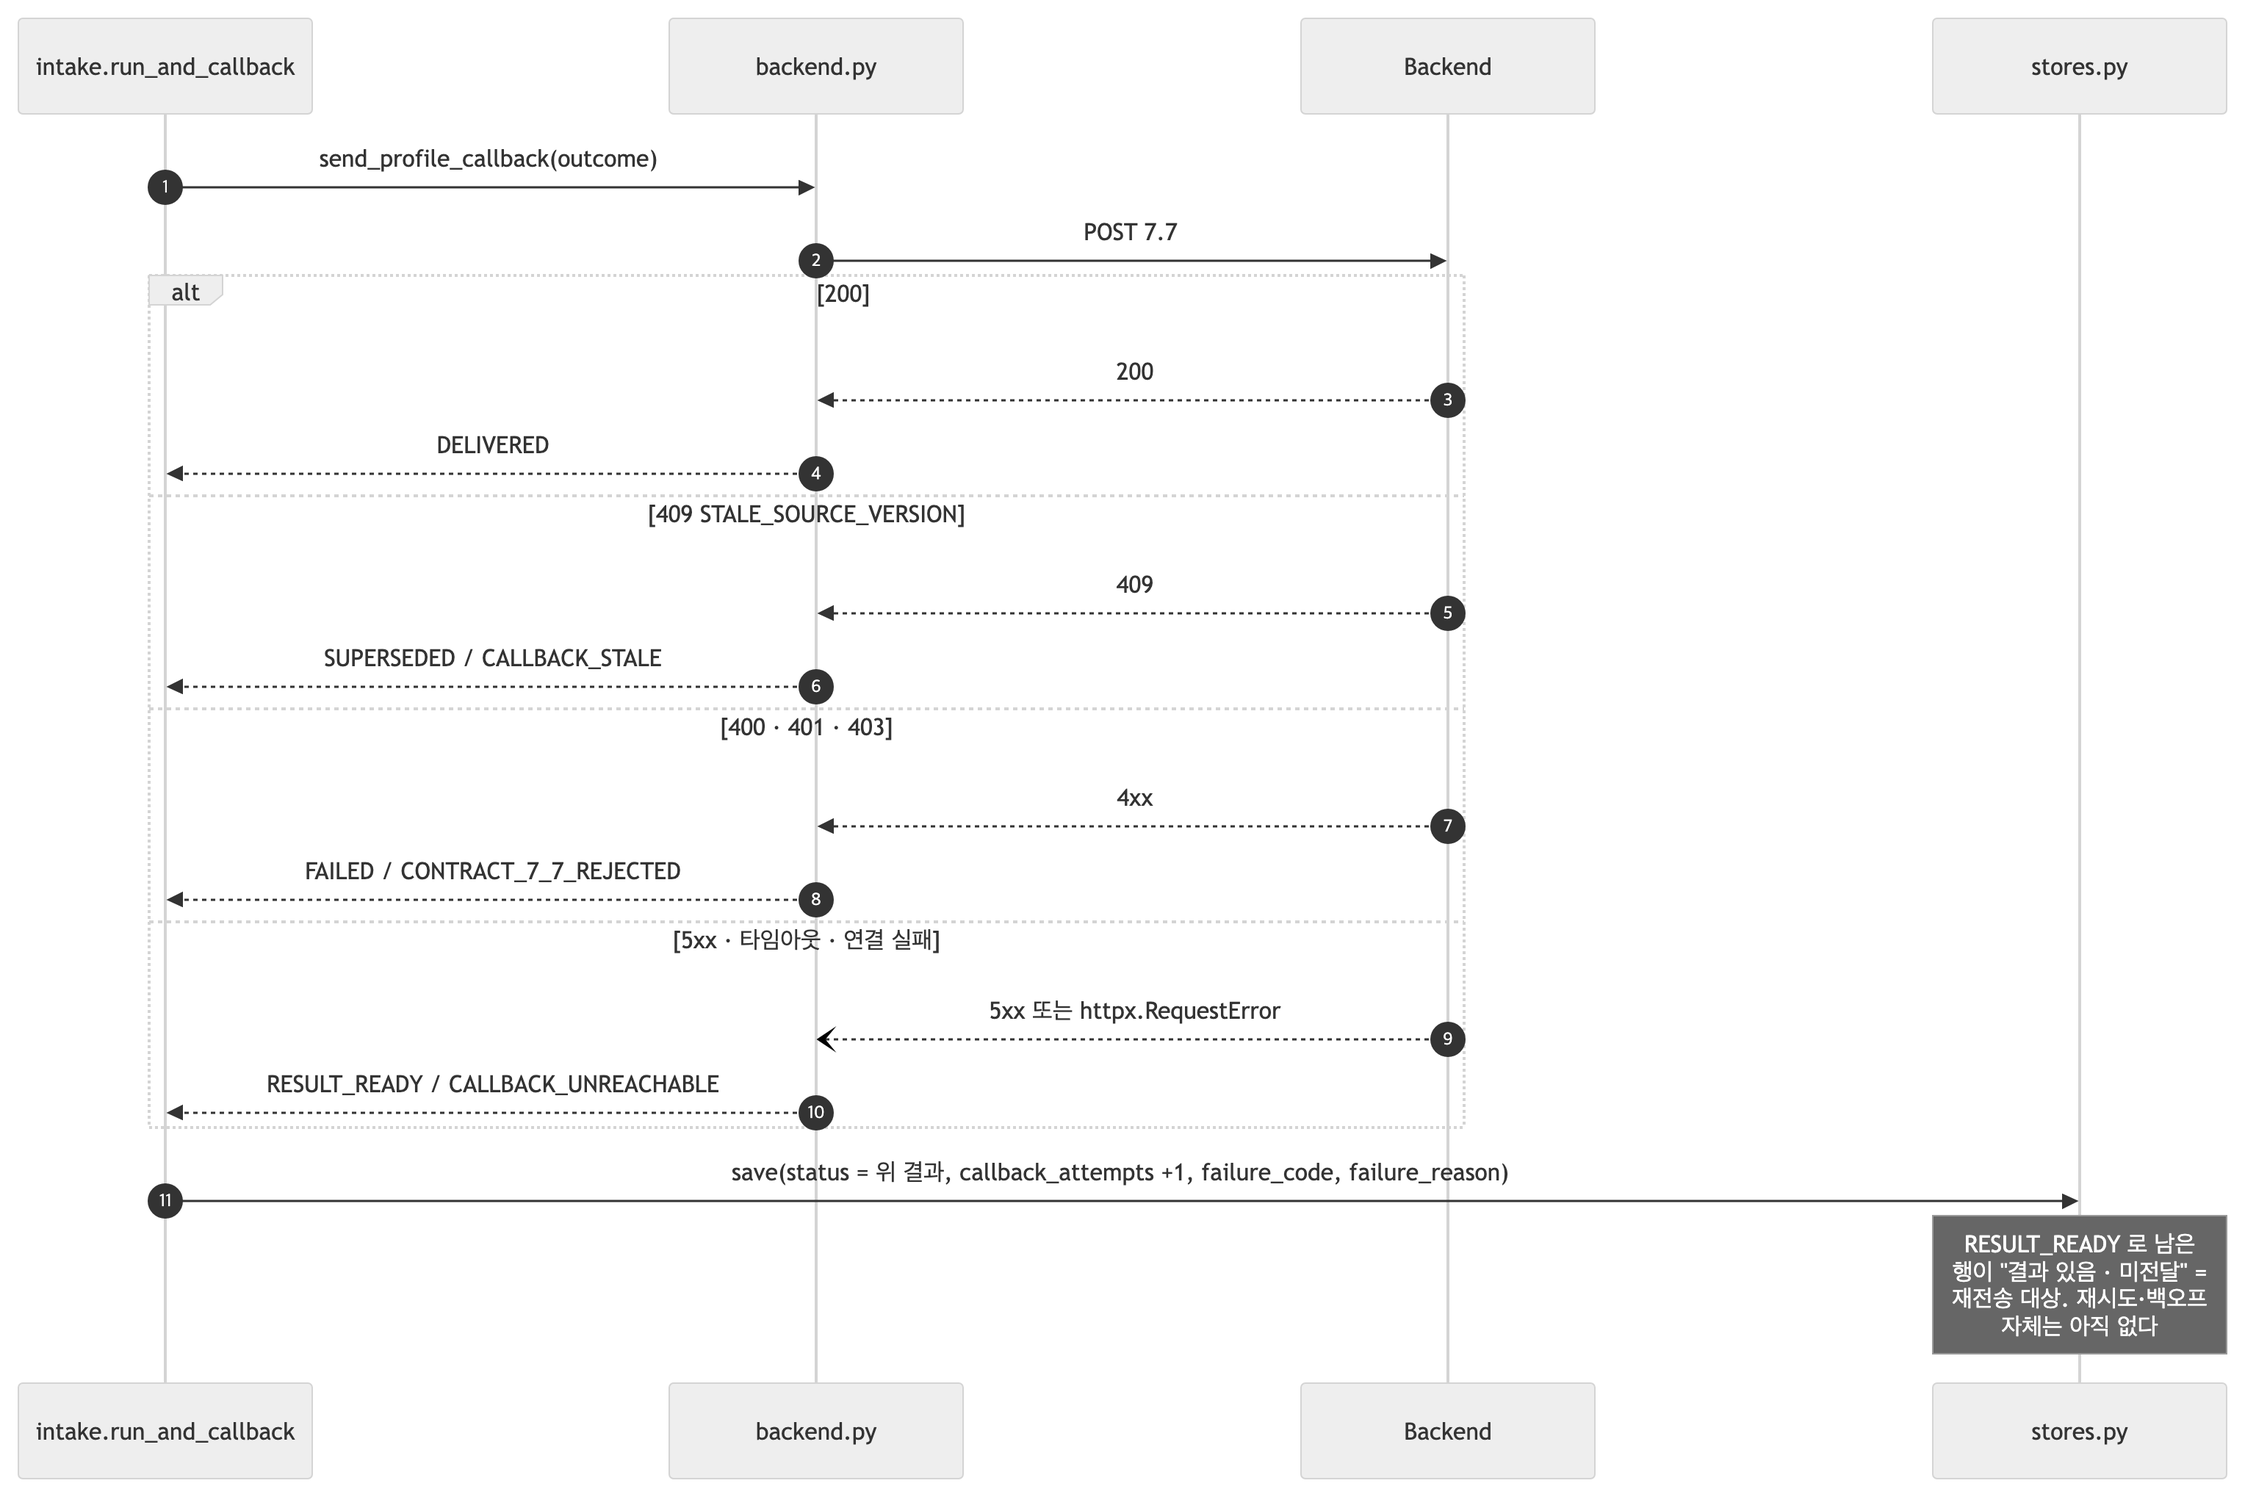
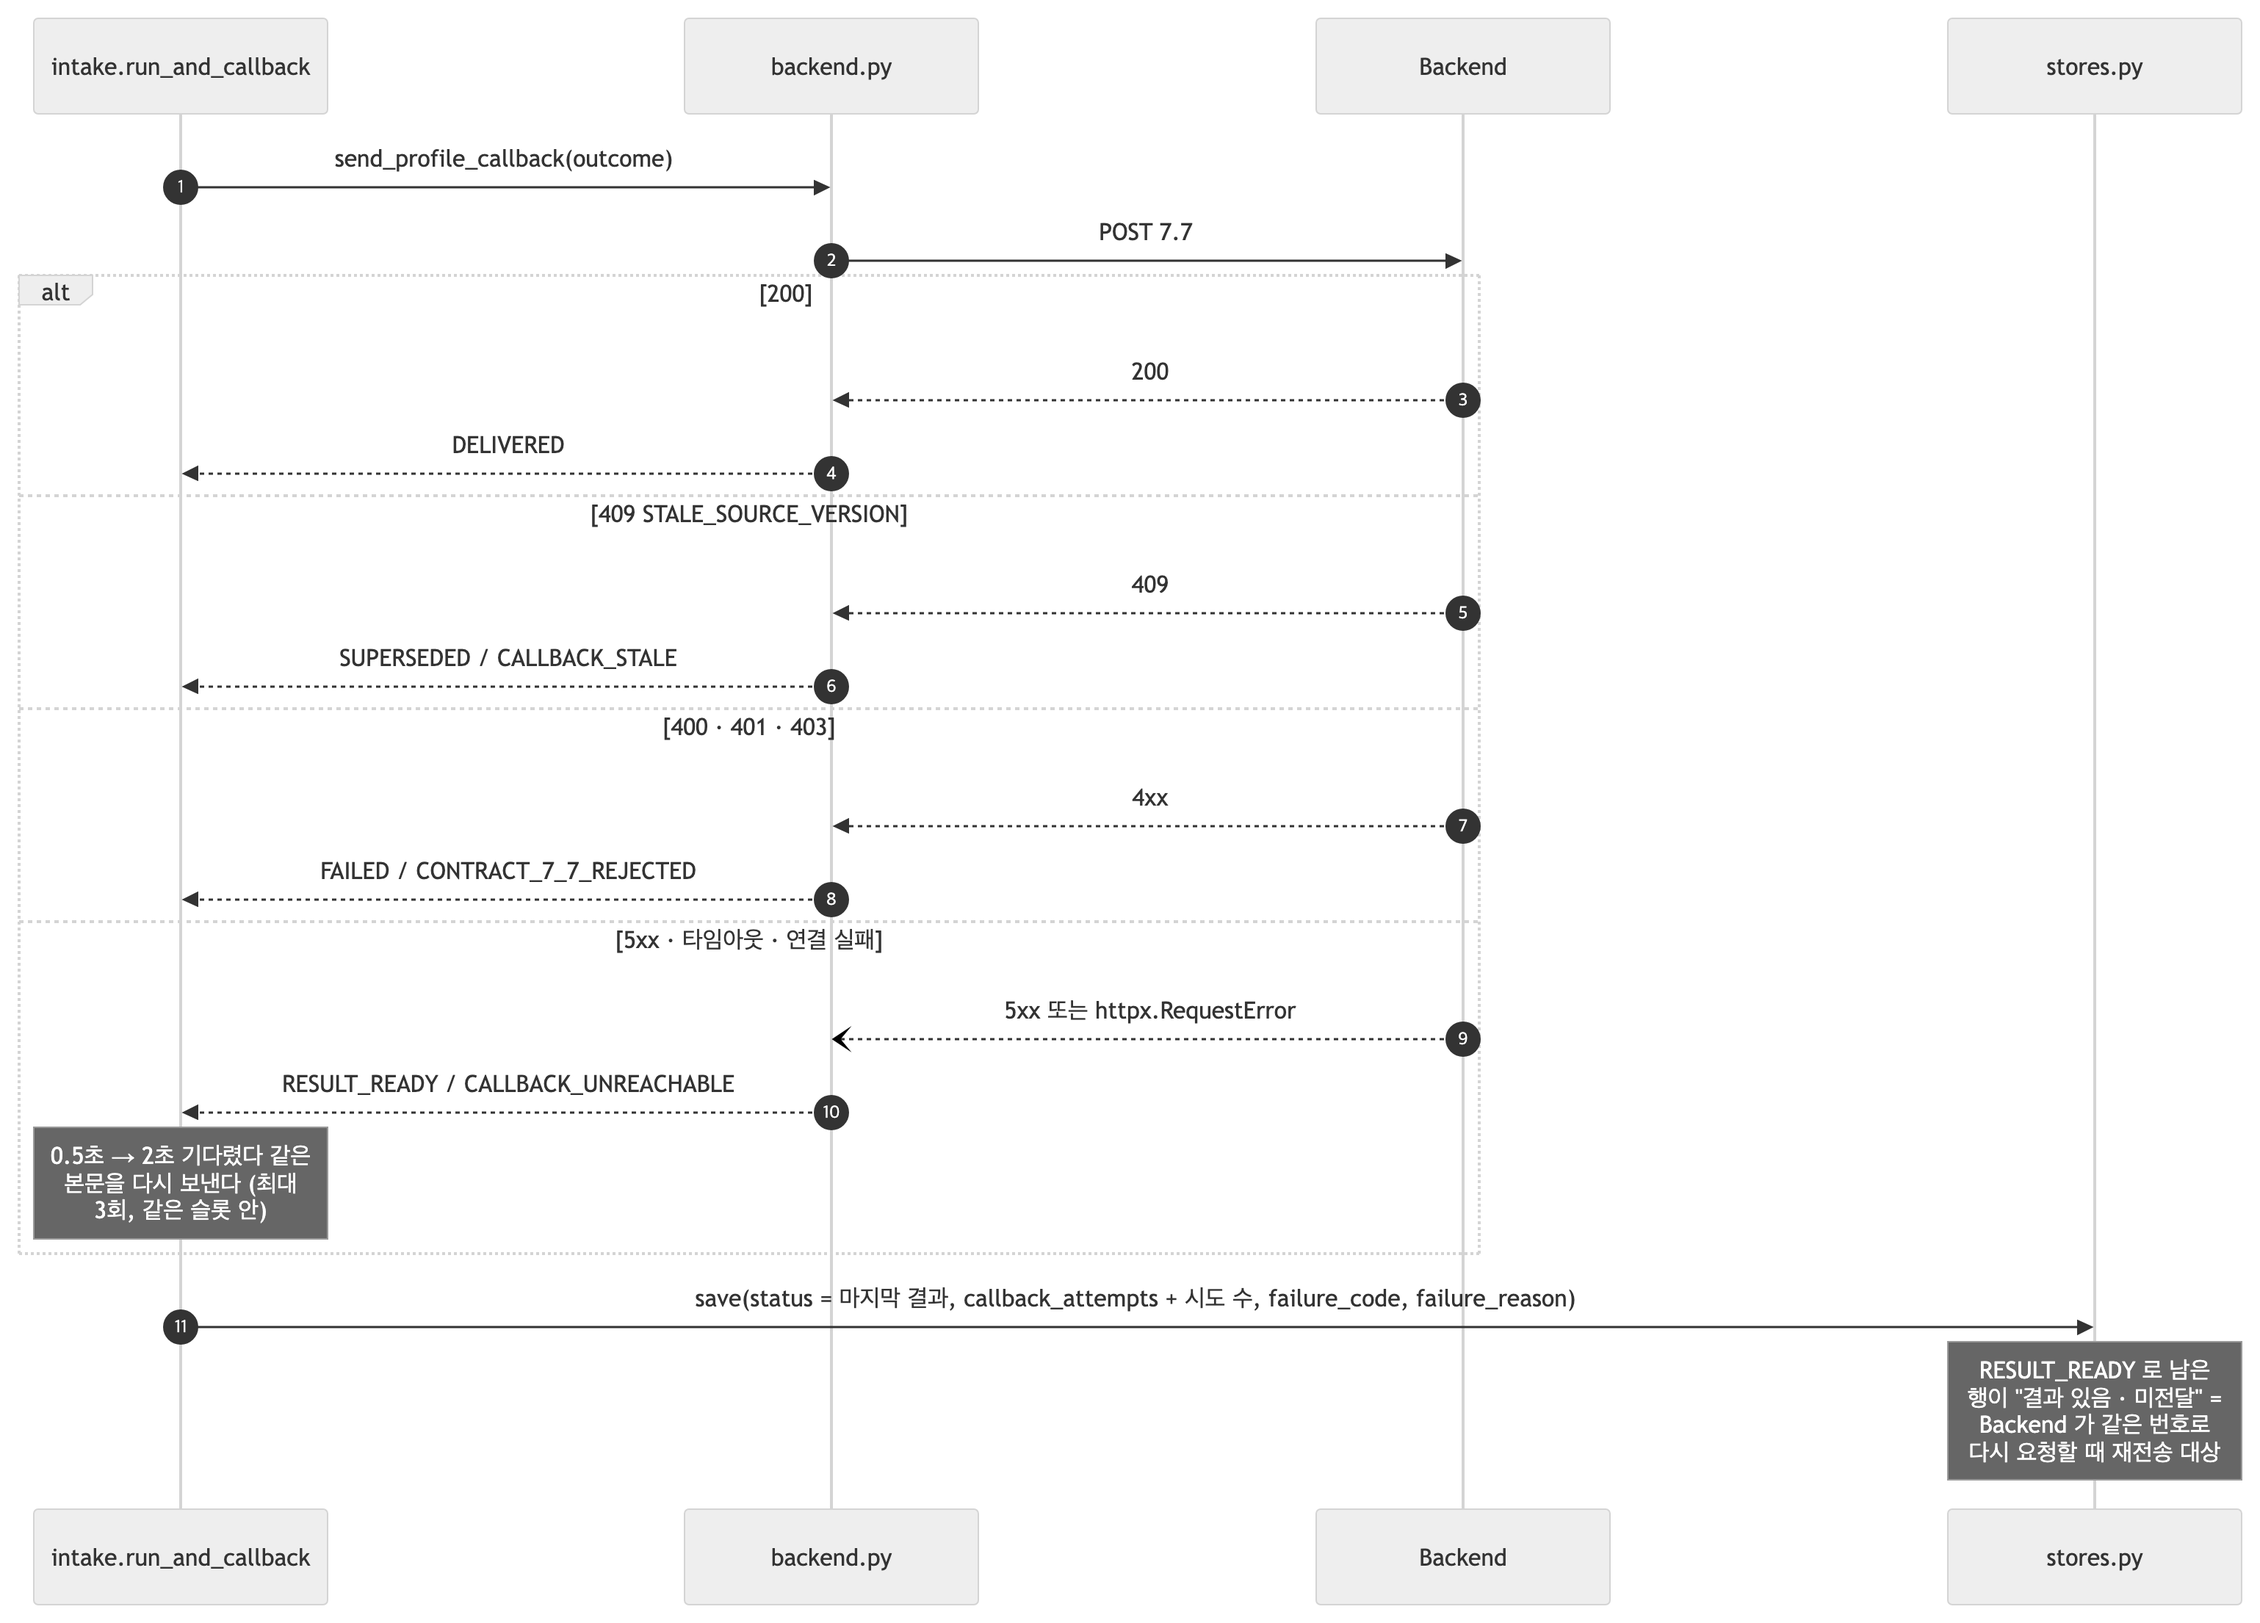
docs(profiling): 재시도 용어를 BE 모델로 통일 — 같은 번호, retry_count는 접수 실패·결과 미도달 둘 다
- BE_전달 §4: "재시도 vs 재전송(새 번호/같은 번호)" 표 → BE 계획 5-1 오류표(400/401 없음 · 500/연결/타임아웃 백오프 ·
  503 Retry-After 우선 · PENDING 타임아웃 · 2회 소진 FAILED). §1·§2 표의 재시도 문장
- 필드표 v1: §0 용어표 · §3.2 retry_count · §3.4 ① · §3.5 · §3.6 표(next_retry_at) · §4.2 그림(같은 번호 v) · §5.1 5번 답됨
- 시퀀스_전체 §6 표·fig 04(즉시 3회) · 코드_안내서 · 이름_대조표 · FE 시나리오 S4/S5/S6 기대값
- 그림 2장 다시 렌더 (be-seq/v1/02 · seq/04)

diff --git a/profiling/docs/BE_전달_2026-09-27.md b/profiling/docs/BE_전달_2026-09-27.md
@@ -45,8 +45,8 @@ Content-Type: application/json
 | **202** | 접수됨 | `{message, data:{recipientUserId, sourceVersion, profileStatus:"PENDING"}}` | §3 ②의 조건부 PENDING 처리 |
 | 400 `INVALID_REQUEST` | 본문이 계약과 다름 | 어디가 틀렸는지 `message`에 | 고쳐서 재요청 (상태 불변) |
 | 401 `UNAUTHORIZED` | 토큰 없음·불일치 | | 토큰 확인 (상태 불변) |
-| 503 `SERVICE_UNAVAILABLE` | AI에 활성 카탈로그 없음 | **헤더 `Retry-After: 300`** | 그 초만큼 기다렸다 1회, 아니면 다음 주기 (상태 불변) |
-| 500 `INTERNAL_SERVER_ERROR` | AI 내부 오류 | | 다음 주기 재시도 (상태 불변) |
+| 503 `SERVICE_UNAVAILABLE` | AI에 활성 카탈로그 없음 | **헤더 `Retry-After: 300`** | 그 초 뒤 **같은 번호**로 재시도 (상태 불변) |
+| 500 `INTERNAL_SERVER_ERROR` | AI 내부 오류 | | 백오프 뒤 **같은 번호**로 재시도 (상태 불변) |
 
 오류 봉투는 전부 같은 모양입니다: `{"message": "...", "error": {"code": "...", "traceId": null}}`
 
@@ -82,7 +82,7 @@ Authorization: Bearer <serviceToken>
 | **200** | 끝 | `DELIVERED` |
 | **409** `STALE_SOURCE_VERSION` | 폐기(정상 경로) | `SUPERSEDED` |
 | 400 · 401 · 403 | 재시도 없음 — 계약이 안 맞는다는 뜻이라 로그로 남깁니다 | `FAILED` |
-| 5xx · 타임아웃 · 연결 실패 | **오늘은 1회만 보내고 멈춥니다**(재시도는 아직 없음) | `RESULT_READY` (미전달) |
+| 5xx · 타임아웃 · 연결 실패 | **즉시 3회**(0.5초·2초 뒤) 다시 보내고, 그래도 안 되면 결과를 보관합니다 — 같은 번호로 다시 요청하시면 재분석 없이 재전송 | `RESULT_READY` (미전달) |
 
 > 마지막 줄이 중요합니다. **AI는 5xx를 스스로 재시도하지 않습니다.** 그 결과는 "결과는 있는데 못 보낸" 상태로 남고, **Backend가 같은 번호로 다시 요청할 때 재전송**됩니다(§4). 그 행의 개수는 `GET /health`의 `store.undelivered`로 볼 수 있습니다.
 
@@ -163,16 +163,19 @@ if profile_status == PENDING and now - pending_since ≥ 타임아웃 and last_c
 
 ---
 
-## 4. 재시도와 재전송은 **다른 것**입니다
+## 4. 재시도 — 같은 번호로, 최대 2회 (BE 계획 5-1·5-2 와 같은 모델)
 
-가장 헷갈리는 부분이라 따로 씁니다. 이름을 나눠 주세요.
+새 요청만 **새 번호**이고, 그 번호가 실패하면 **같은 번호로** 다시 보냅니다. 접수 실패(7.6이 500·503·연결 실패·타임아웃)든 결과 미도달(202는 받았는데 7.7이 안 옴)이든 **`retry_count` 하나로 셉니다**(최대 2). AI 쪽 말로는, 같은 번호가 다시 왔을 때 저장된 결과를 다시 보내는 것을 **재전송**이라고 부릅니다.
 
-| | 언제 | AI가 가진 것 | 번호 | 횟수 |
-|---|---|---|---|---|
-| **재시도** | 7.6이 503·500·무응답 — **접수 자체가 안 됨** | 없음(실행 기록도 안 생김) | **새 번호**(+1) | 짧게 2회 정도 |
-| **재전송** | 202는 받았는데 7.7이 안 옴 — **결과가 안 도달** | 분석 결과가 이미 있음 | **같은 번호** | `retry_count` 최대 2 |
+| BE가 본 것 | BE 동작 (BE 계획 5-1) | AI가 가진 것 |
+|---|---|---|
+| 7.6 → 400 `INVALID_REQUEST` · 401 `UNAUTHORIZED` | 재시도 없음 — 계약·토큰 문제, 고친 뒤 새 번호 | 없음(접수 안 됨) |
+| 7.6 → 500 · 연결 실패 · 응답 타임아웃 | 백오프 뒤 **같은 번호** 재시도 (`retry_count` +1) | 없음 — 같은 번호가 오면 그때 분석 |
+| 7.6 → 503 `SERVICE_UNAVAILABLE` | **`Retry-After`(300초) 뒤** 같은 번호 재시도 | 없음 |
+| 202 받았는데 7.7이 10분 안에 안 옴 | PENDING 타임아웃 → 같은 번호 재시도 (`retry_count` +1) | 결과가 있으면 **재분석 없이 재전송**, 없으면 분석 |
+| `retry_count` 2를 다 쓰고도 실패 | `FAILED` — 사용자가 다시 고칠 때 새 번호 | AI는 그 뒤에도 아무것도 보내지 않음 |
 
-**`retry_count`는 재전송만 셉니다.**
+`retry_count`는 **새 번호를 보낼 때와 7.7 결과를 저장했을 때 0**이 됩니다. 재시도를 기다리는 동안 사용자가 또 고치면 옛 번호 재시도는 버리고 **새 번호**가 나갑니다(낡은 입력으로 재시도하지 않기 위해).
 
 ### 같은 번호를 받으면 AI가 하는 일
 

diff --git a/profiling/docs/FE_연동_시험_시나리오.md b/profiling/docs/FE_연동_시험_시나리오.md
@@ -60,8 +60,8 @@ PROFILING_CATALOG_SOURCE=db PROFILING_BACKEND_BASE_URL=http://localhost:8081 \
 |---|---|
 | FE 대응 | 화면이 깨지지 않고 이전 결과 유지 |
 | 조작 | `update ai_catalog.catalog_versions set is_active=false` → 비선호 변경 |
-| 기대 | 7.6 → **503**, 상태 **그대로**(오류는 상태를 바꾸지 않는다) · 카탈로그 되살리면 다음 주기에 COMPLETED |
-| 확인 | AI `/health` → `catalog.active=false` · BE 이벤트에 `7.6 신규 → 503` |
+| 기대 | 7.6 → **503**, 상태 **그대로** · BE는 `Retry-After` 뒤 **같은 번호**로 재시도(`retryCount` 1) · 카탈로그를 되살려 두면 그 재시도가 202 → COMPLETED. 로컬은 AI `.env`에 `PROFILING_RETRY_AFTER_S=5` |
+| 확인 | AI `/health` → `catalog.active=false` · BE 이벤트에 `7.6 신규 → 503`(retryAfter 5) 다음 `7.6 재시도1 → 202` · `sourceVersion` 그대로 |
 
 ### S5 · 콜백 유실 → 같은 번호 재전송 (09-25 합의의 핵심)
 
@@ -69,8 +69,8 @@ PROFILING_CATALOG_SOURCE=db PROFILING_BACKEND_BASE_URL=http://localhost:8081 \
 |---|---|
 | FE 대응 | 잠깐 반영이 늦을 뿐, 사용자가 다시 손대지 않아도 결국 반영됨 |
 | 조작 | `PUT /console/mode {"mode":"500"}` → 비선호 변경 → 첫 7.7이 5xx로 실패 → 타임아웃 뒤 재전송 → `mode=ok` 로 복구 |
-| 기대 | BE `retryCount` 1 → (필요시 2) · **AI는 재분석하지 않고 저장된 결과를 재전송** · 최종 COMPLETED |
-| 확인 | AI 로그 `중복 판정 … → resend` · `profile_runs.attempt=1`, `callback_attempts≥2` |
+| 기대 | AI가 먼저 같은 슬롯에서 0.5초·2초 뒤 두 번 더 보내고(3회) 그래도 5xx면 보관 · BE `retryCount` 1 → (필요시 2) · **BE 재시도 때 AI는 재분석하지 않고 저장된 결과를 재전송** · 최종 COMPLETED |
+| 확인 | AI 로그 `7.7 미전달 … 다시 보낸다 (2/3)` · `중복 판정 … → resend` · `profile_runs.attempt=1`, `callback_attempts ≥ 4`(즉시 3회 + 재전송) |
 
 ### S6 · 재시도 소진 → FAILED
 
@@ -78,7 +78,7 @@ PROFILING_CATALOG_SOURCE=db PROFILING_BACKEND_BASE_URL=http://localhost:8081 \
 |---|---|
 | FE 대응 | 이전 결과가 있으면 그것, 없으면 대체 정렬. "분석 실패"는 사용자에게 보이지 않아도 된다 |
 | 조작 | `mode=500` 을 유지한 채 비선호 변경 |
-| 기대 | 재전송 2회를 다 쓰고 `profileStatus=FAILED` · **AI는 FAILED를 보내지 않는다**(BE 판정) |
+| 기대 | 같은 번호 재시도 2회를 다 쓰고 `profileStatus=FAILED` · **AI는 FAILED를 보내지 않는다**(BE 판정) |
 
 ### S7 · 순서 역전 → 409
 

diff --git a/profiling/docs/시퀀스_전체.md b/profiling/docs/시퀀스_전체.md
@@ -226,7 +226,7 @@ sequenceDiagram
 | 200 | `DELIVERED` | — | 전달 완료 |
 | 409 | `SUPERSEDED` | `CALLBACK_STALE` | 더 새 버전이 이미 저장됨 → 결과 폐기, 재시도 없음 (정상 경로) |
 | 400 · 401 · 403 | `FAILED` | `CONTRACT_7_7_REJECTED` | 우리 쪽 버그나 토큰 → 재시도 없음 |
-| 5xx · 타임아웃 · 연결 실패 | `RESULT_READY` | `CALLBACK_UNREACHABLE` | 아직 전달 못 함 → **재시도 대상**(오늘은 1회만 보내고 멈춘다) |
+| 5xx · 타임아웃 · 연결 실패 | `RESULT_READY` | `CALLBACK_UNREACHABLE` | 같은 슬롯에서 **즉시 3회**(0.5초·2초 뒤) 다시 보낸다. 그래도 안 되면 미전달로 남겨 Backend가 같은 번호로 다시 요청할 때 재전송 |
 
 ![콜백 결과](assets/seq/04-콜백-결과.png)
 
@@ -253,9 +253,10 @@ sequenceDiagram
   else 5xx · 타임아웃 · 연결 실패
     BE--)BP: 5xx 또는 httpx.RequestError
     BP-->>R: RESULT_READY / CALLBACK_UNREACHABLE
+    Note over R: 0.5초 → 2초 기다렸다 같은 본문을 다시 보낸다 (최대 3회, 같은 슬롯 안)
   end
-  R->>ST: save(status = 위 결과, callback_attempts +1, failure_code, failure_reason)
-  Note over ST: RESULT_READY 로 남은 행이 "결과 있음 · 미전달" = 재전송 대상. 재시도·백오프 자체는 아직 없다
+  R->>ST: save(status = 마지막 결과, callback_attempts + 시도 수, failure_code, failure_reason)
+  Note over ST: RESULT_READY 로 남은 행이 "결과 있음 · 미전달" = Backend 가 같은 번호로 다시 요청할 때 재전송 대상
 ```
 
 콜백 본문을 만들지 못하는 경우(`search`가 없음)도 한 갈래 더 있다 — `FAILED / PIPELINE_ERROR`로 돌려주고 HTTP는 나가지 않는다.

diff --git a/profiling/이름_대조표.md b/profiling/이름_대조표.md
@@ -96,7 +96,7 @@
 | 콜백 결과 | `CallbackResult` = `{status: RunStatus, http_status, code: ErrorCode, message}` | 모델 | PO(`BackendPort.send_profile_callback` 반환), B, A(`run_and_callback`) | 09-22: 반환이 `RunStatus`에서 이것으로 |
 | 7.6 모르는 필드 | `unknown_fields(body)` → `{"": [...], "dislikedCategories": [...], "reviews": [...]}` | 함수 | S, A(접수 로그) | DTO는 `extra="allow"` |
 | 요청 본문 해시 | `input_hash` | `str \| None` (sha256 hex) | T(`ProfileOutcome`), P(`input_hash(rq)`), SD(NOT NULL 열) | 비선호는 ID 순 정렬 후 해시 — 같은 키·다른 입력 감지 |
-| 콜백 시도 수 | `callback_attempts` | int | T(`ProfileOutcome`), A(콜백 뒤 +1), SD(`greatest`) | BE 쪽 대응은 `profiles.retry_count`(재전송 횟수, 최대 2 · 09-25) — 세는 대상이 달라 값이 같지 않을 수 있다 |
+| 콜백 시도 수 | `callback_attempts` | int | T(`ProfileOutcome`), A(콜백 뒤 +실제 시도 수 — 5xx면 즉시 재시도 포함), SD(`greatest`) | BE 쪽 대응은 `profiles.retry_count`(같은 번호 재시도 횟수 — 접수 실패·결과 미도달 합산, 최대 2 · 09-27) — 세는 대상이 달라 값이 같지 않다 |
 | 콜백 본문(저장용) | `callback_payload` · `callback_hash` | jsonb · text | SD 열 — 값은 B `callback_body(outcome)`로 만듦 | 전송(`to_callback`)과 같은 함수 → 재전송이 같은 payload |
 | 프롬프트·검증기 판 | `prompt_version` · `validator_version` | `str \| None` | T(`ProfileOutcome`), P(v1: `None`·`"v1-skip"` 예정) | 관측 라벨 |
 
